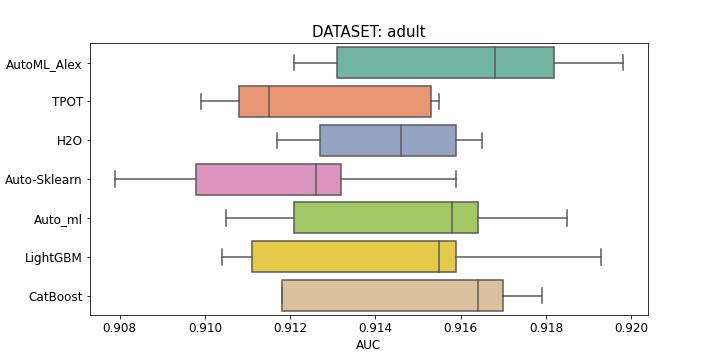
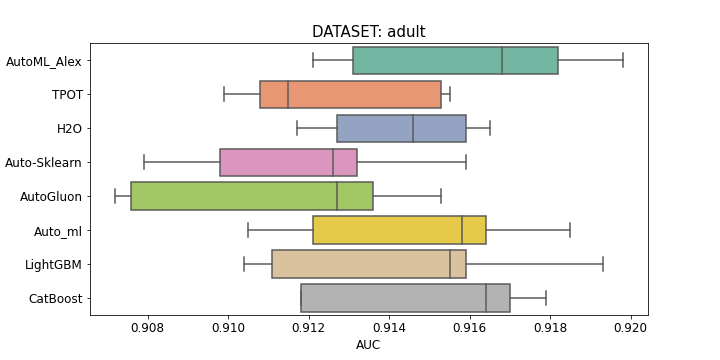
update

diff --git a/README.md b/README.md
@@ -221,10 +221,10 @@ and on which the problem has not yet been solved with 99 AUC
    <td>0,0064</td>
    <td>0,7798</td>
    <td>0,0373</td>
-   <td>0,</td>
-   <td>0,</td>
-   <td>0,</td>
-   <td>0,</td>
+   <td>0,9926</td>
+   <td>0,0026</td>
+   <td>0,9652</td>
+   <td>0,0021</td>
    <td>0,</td>
    <td>0,</td>
   </tr>
@@ -233,15 +233,15 @@ and on which the problem has not yet been solved with 99 AUC
    <td>AutoGluon
    </td>
    <td>0,9112</td>
-   <td>0,0031</td>
-   <td>0,5</td>
-   <td>0</td>
-   <td>0,9345</td>
-   <td>0,0045</td>
-   <td>0,7046</td>
-   <td>0,0064</td>
-   <td>0,7798</td>
-   <td>0,0373</td>
+   <td>0,0036</td>
+   <td>0,8629</td>
+   <td>0,0109</td>
+   <td>0,</td>
+   <td>0,</td>
+   <td>0,</td>
+   <td>0,</td>
+   <td>0,</td>
+   <td>0,</td>
    <td>0,</td>
    <td>0,</td>
    <td>0,</td>
@@ -351,3 +351,4 @@ and on which the problem has not yet been solved with 99 AUC
 <p><img width=800 src="./img/Click_prediction_small.png" alt="datset_Boxplot">
 <p><img width=800 src="./img/credit-g.png" alt="datset_Boxplot">
 <p><img width=800 src="./img/eeg-eye-state.png" alt="datset_Boxplot">
+<p><img width=800 src="./img/electricity.png" alt="datset_Boxplot">
